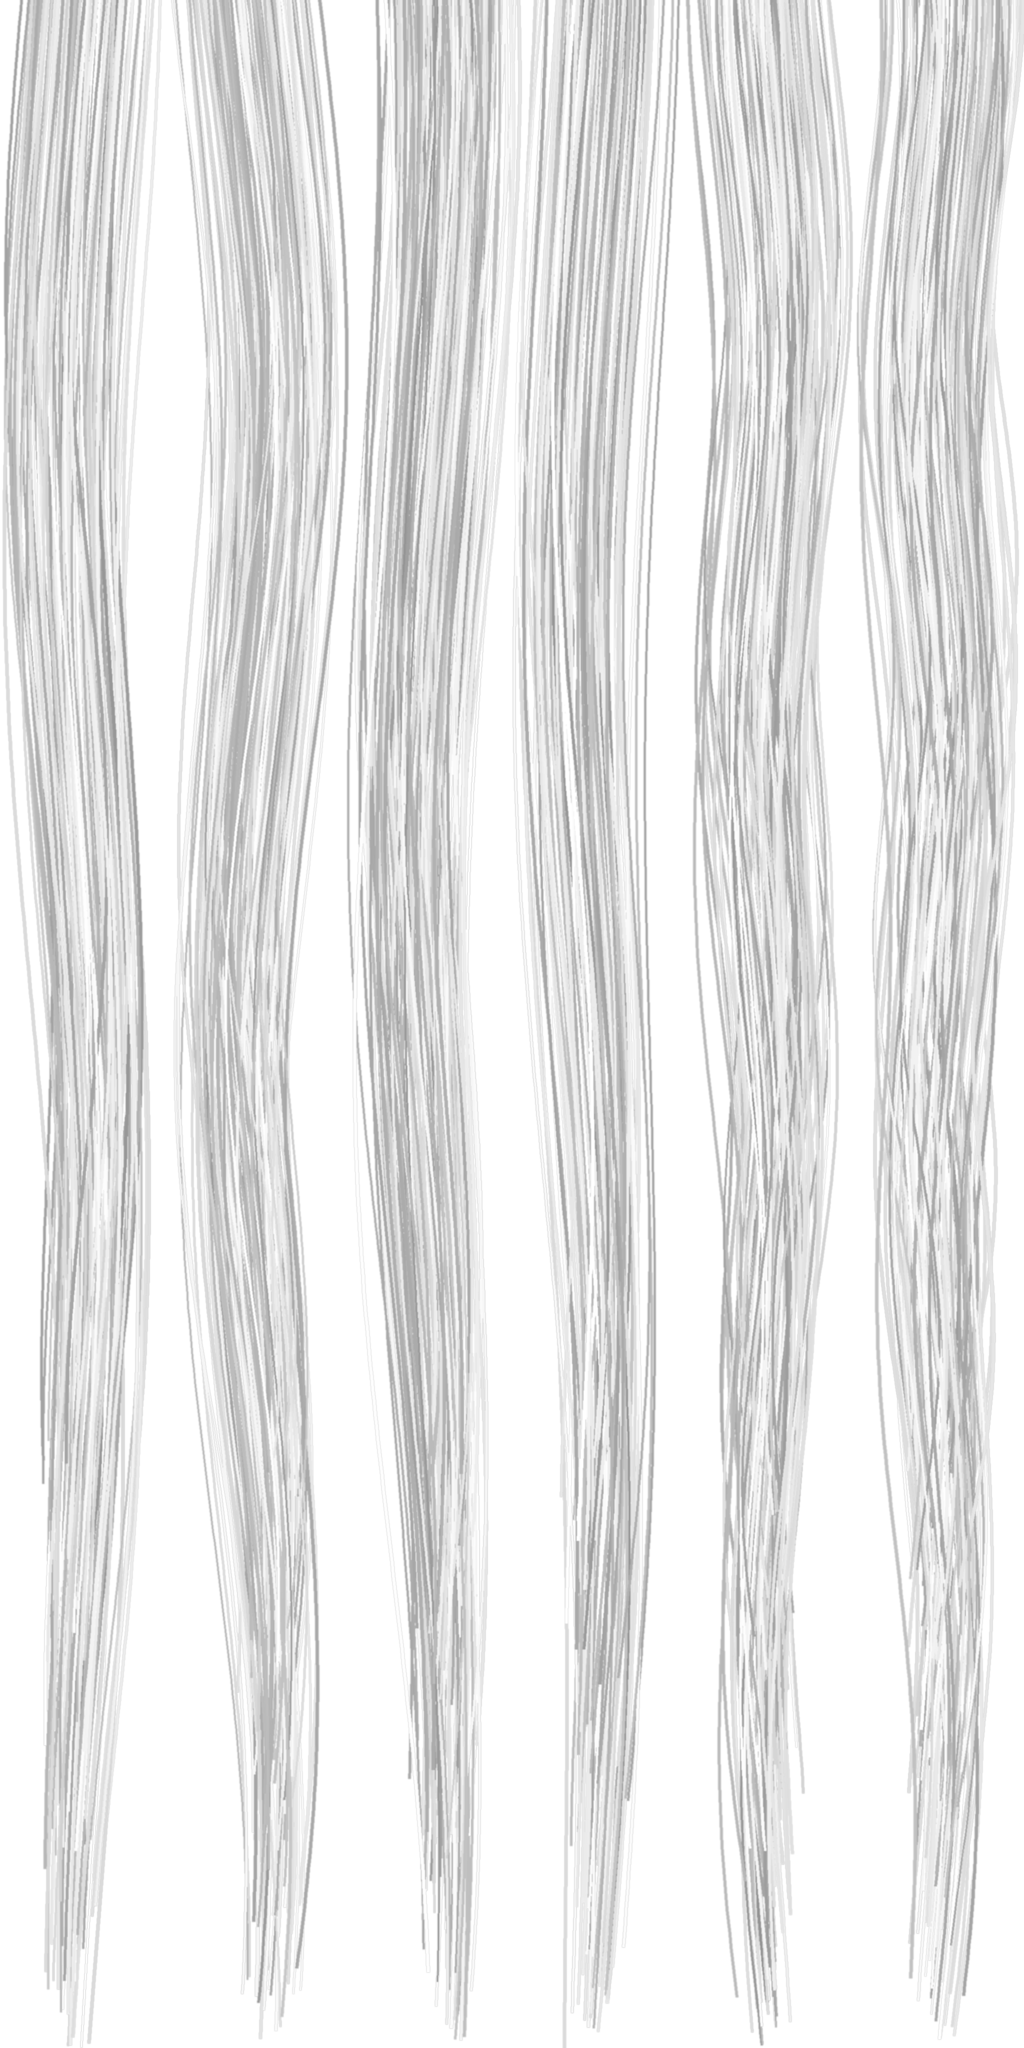
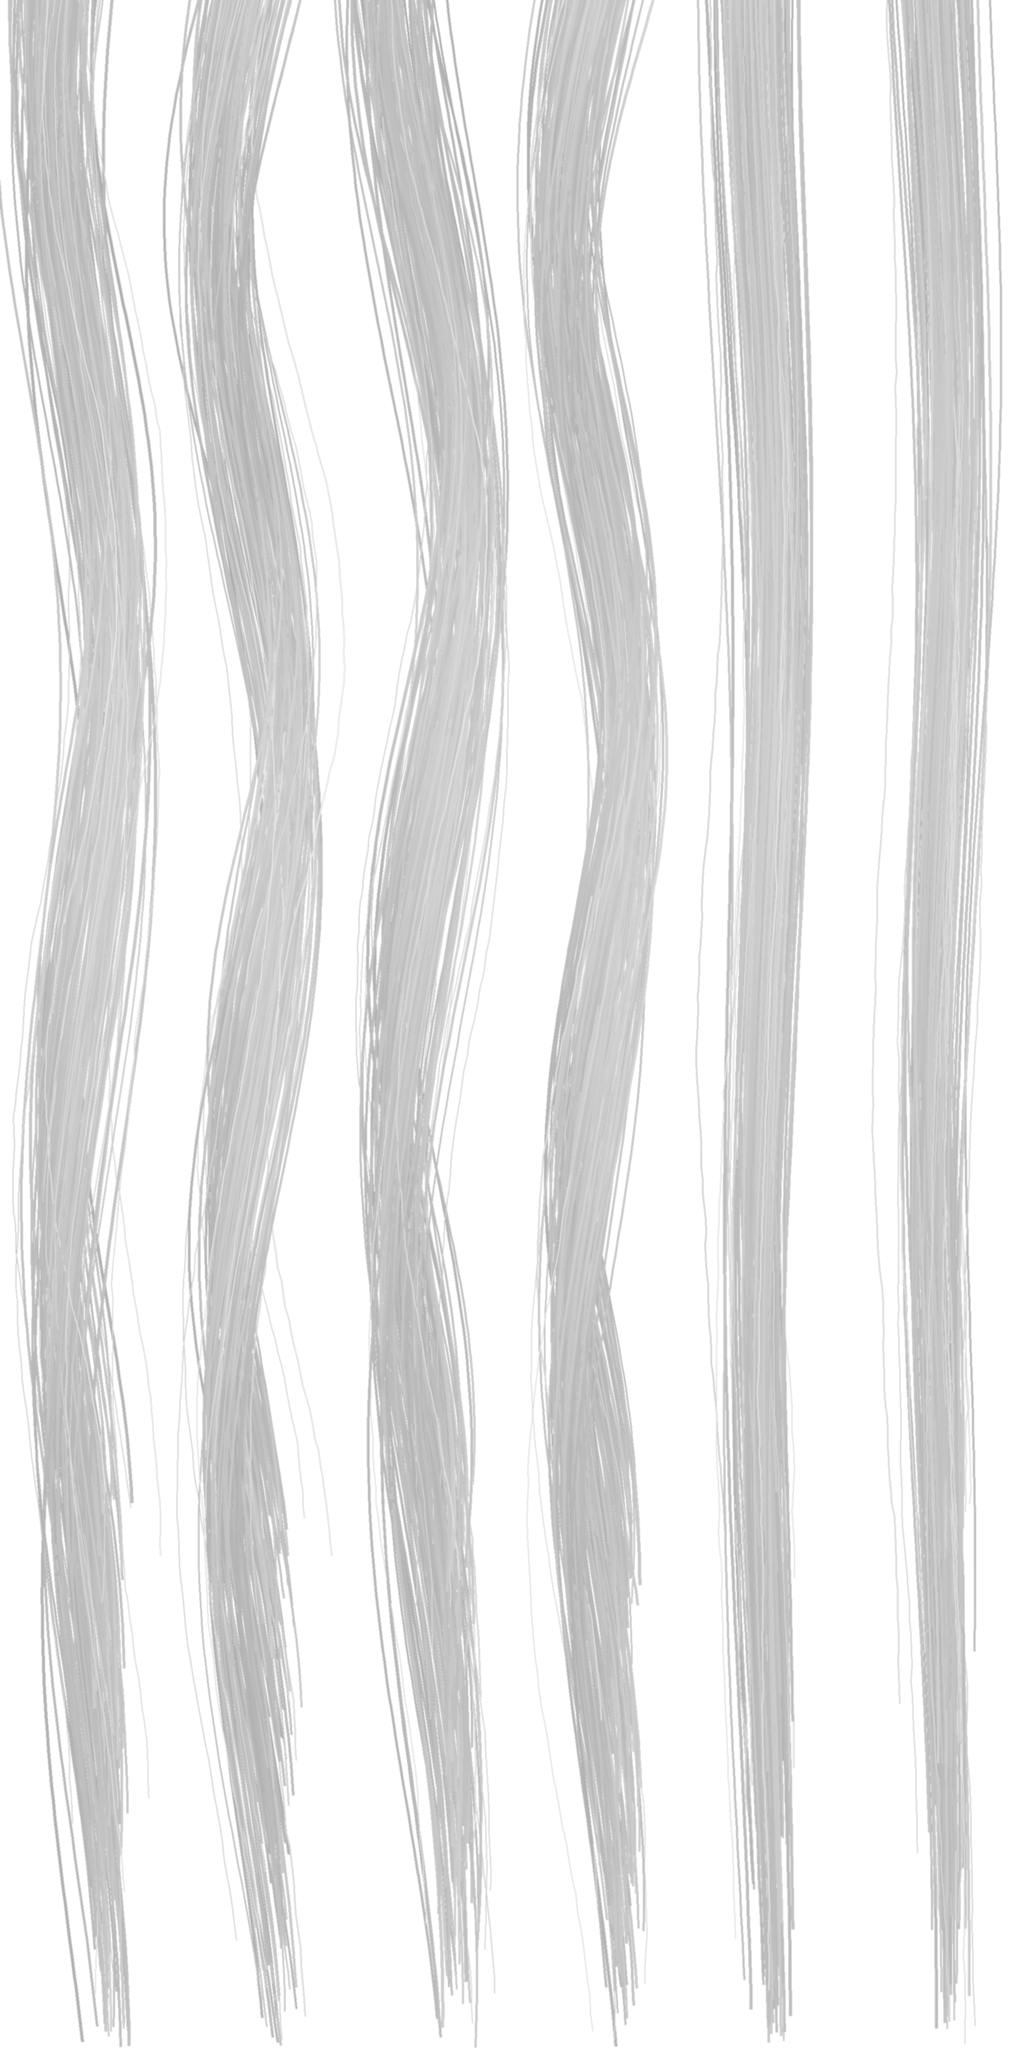
Kenny's hair: curl cards rendered from 3D strand clumps
Claude-Session: https://claude.ai/code/session_01RyRo3mh3ZakHSDewU65aFM

diff --git a/tools/blender/kenny_curls.py b/tools/blender/kenny_curls.py
@@ -174,6 +174,8 @@ SLICK_COLUMNS = 2
 ATLAS = (1024, 2048)
 ATLAS_STRANDS = 140
 ATLAS_SEED = 271029
+## A share of each clump's strands are thin flyaways off its edge.
+ATLAS_FLYAWAY = 0.12
 ## The RGB under the strands: what the opaque cap shows between them. At
 ## 120 (linear 0.19) it took the cap to near black.
 ATLAS_GROUND = 170
@@ -194,11 +196,19 @@ def linear(c) -> tuple:
 
 
 def paint_atlas(target: pathlib.Path) -> None:
-    """RGB strand tone over ATLAS_GROUND, coverage in alpha. Curl columns: a
-    clump of strands sharing one curl (so it reads as a ringlet, not frizz),
-    each strand's phase and amplitude a little off the clump's, converging
-    toward the tip and thinning over the last quarter. Slick columns: long
-    strands with a slow wave."""
+    """The curl cards' atlas: each column a clump of strands rendered in 3D.
+
+    Owner's brief, 8 Nov: "visible strand detail rather than solid
+    plastic-looking clumps ... realistic overlapping curl clusters, varying
+    thickness and flyaways". The first atlas drew flat 2D strokes; this one
+    builds each column as a clump of 3D strands -- a coil (curl columns) or a
+    slow wave (slick columns) -- projects it, and shades every segment:
+    Kajiya-Kay (bright where the strand runs across the light), and depth
+    (the clump's back strands in its own shade). Segments are drawn back to
+    front, so front strands cross over darker ones behind: a ringlet with a
+    dark core and lit crests. A share are thin flyaways. Grey tone over
+    ATLAS_GROUND, coverage in alpha; vertex colour gives the hue. Root at
+    the top. numpy and PIL only: byte-identical on rebuild."""
     rng = np.random.default_rng(ATLAS_SEED)
     ss = 2
     w, h = ATLAS[0] * ss, ATLAS[1] * ss
@@ -207,30 +217,51 @@ def paint_atlas(target: pathlib.Path) -> None:
     dt, da = ImageDraw.Draw(tone), ImageDraw.Draw(alpha)
     columns = CURL_COLUMNS + SLICK_COLUMNS
     col = w / columns
+    light = np.array([0.45, -0.62, 0.64])
+    light /= np.linalg.norm(light)
+    n = 120
     for c in range(columns):
         curly = c < CURL_COLUMNS
         centre = c * col + col * 0.5
-        # Loop 1: one or two broad S-turns a card over the helix, not the
-        # 5-7 fine waves that read as frizz; the crown's lengths wavy too.
-        waves = float(rng.uniform(1.0, 1.6)) if curly else float(rng.uniform(2.0, 2.5))
-        amp = col * (float(rng.uniform(0.10, 0.14)) if curly else 0.08)
+        turns = float(rng.uniform(1.3, 1.8)) if curly else float(rng.uniform(1.0, 1.4))
+        radius = col * (float(rng.uniform(0.20, 0.25)) if curly else 0.07)
         phase = float(rng.uniform(0.0, 2.0 * math.pi))
-        for _ in range(ATLAS_STRANDS):
-            x0 = centre + col * 0.40 * float(np.clip(rng.normal(0.0, 0.45), -1.0, 1.0))
-            length = h * float(rng.uniform(0.70, 1.0))
-            a = amp * float(rng.uniform(0.7, 1.25))
-            ph = phase + float(rng.normal(0.0, 0.35))
-            pts = []
-            for t in np.linspace(0.0, 1.0, 160):
-                x = x0 + (centre - x0) * 0.6 * t * t + a * math.sin(ph + waves * 2.0 * math.pi * t)
-                pts.append((x, t * length))
-            width = max(1, round(float(rng.uniform(2.0, 3.4)) * ss))
-            # Most strands bright, a few dark ones through the clump.
-            shade = int(rng.integers(205, 256)) if rng.random() < 0.65 else int(rng.integers(140, 185))
-            dt.line(pts, fill=shade, width=width)
-            da.line(pts, fill=int(rng.integers(170, 256)), width=width)
-    alpha = alpha.filter(ImageFilter.GaussianBlur(0.6 * ss)).resize(ATLAS, Image.LANCZOS)
-    tone = tone.filter(ImageFilter.GaussianBlur(0.5 * ss)).resize(ATLAS, Image.LANCZOS)
+        segments = []
+        for k in range(ATLAS_STRANDS):
+            fly = rng.random() < ATLAS_FLYAWAY
+            dx, dz = rng.normal(0.0, col * 0.11), rng.normal(0.0, col * 0.11)
+            length = h * float(rng.uniform(0.72, 1.0))
+            ph = phase + float(rng.normal(0.0, 0.30))
+            r = radius * float(rng.uniform(0.85, 1.15))
+            t = np.linspace(0.0, 1.0, n)
+            ang = ph + turns * 2.0 * math.pi * t
+            # Converging toward the tip; a flyaway wanders off the clump.
+            spread = (1.0 - 0.55 * t) * (1.0 + (1.6 * t if fly else 0.0))
+            x = centre + r * (1.0 - 0.25 * t) * np.cos(ang) + dx * spread
+            z = r * np.sin(ang) + dz * spread
+            y = t * length
+            if fly:
+                x = x + np.cumsum(rng.normal(0.0, 0.6 * ss, n))
+            pts = np.stack([x, y, z], 1)
+            tan = np.gradient(pts, axis=0)
+            tan /= np.maximum(np.linalg.norm(tan, axis=1, keepdims=True), 1e-6)
+            kk = np.sqrt(np.clip(1.0 - (tan @ light) ** 2, 0.0, 1.0))
+            spec = kk ** 24
+            depth = 0.5 + 0.5 * np.clip(z / (radius + col * 0.25), -1.0, 1.0)
+            # Lit to the old atlas's level (its strands 205-255 over 170): the
+            # vertex colour carries the gold, and a darker atlas went olive.
+            shade = np.clip(135 + 95 * kk * (0.35 + 0.65 * depth) + 45 * spec * depth, 0, 255)
+            width = max(1, round(float(rng.uniform(0.8, 1.4) if fly else rng.uniform(1.6, 3.0)) * ss))
+            a_val = int(rng.integers(110, 170)) if fly else int(rng.integers(190, 256))
+            for m in range(n - 1):
+                segments.append((float(z[m] + z[m + 1]), (x[m], y[m], x[m + 1], y[m + 1]),
+                                 int(shade[m]), width, a_val))
+        segments.sort(key=lambda sgm: sgm[0])
+        for _, (x0, y0, x1, y1), sh, wd, av in segments:
+            dt.line((x0, y0, x1, y1), fill=sh, width=wd)
+            da.line((x0, y0, x1, y1), fill=av, width=wd)
+    alpha = alpha.filter(ImageFilter.GaussianBlur(0.5 * ss)).resize(ATLAS, Image.LANCZOS)
+    tone = tone.filter(ImageFilter.GaussianBlur(0.4 * ss)).resize(ATLAS, Image.LANCZOS)
     out = Image.merge("RGBA", (tone, tone, tone, alpha))
     out.save(target, optimize=True)
 

diff --git a/README.md b/README.md
@@ -11575,3 +11575,5 @@ What the renders show, against the references:
 - the skin is greyer and duller under a studio key than under the arena's warm light.
 
 **Tear ducts.** The owner's atlas painted the inner corners of the eyes as plain lid skin. `build_kenny_textures.caruncles` lays a small, feathered pink-red caruncle at each inner canthus (`CARUNCLES`, 65%).
+
+**Hair: a strand-rendered card atlas.** The owner's brief asked for "visible strand detail rather than solid plastic-looking clumps". The curl-card atlas was 2D strokes. `paint_atlas` now builds each column as a 3D clump of strands: a coil for the curls, a slow wave for the crown, with 12% thin flyaways. It projects the clump and shades every segment by Kajiya-Kay (lit where a strand runs across the light) and by depth (the clump's back strands in its own shade), drawing back to front so the front strands cross darker ones behind. Its level matches the old atlas, so the vertex colour still carries the gold. Under match light the curls now read as separate locks with shadow between the coils. Same triangles (39.9k); numpy and PIL only, and the rebuild is byte-identical. Before and after: `kenny_hair_strand_atlas.jpg`.
